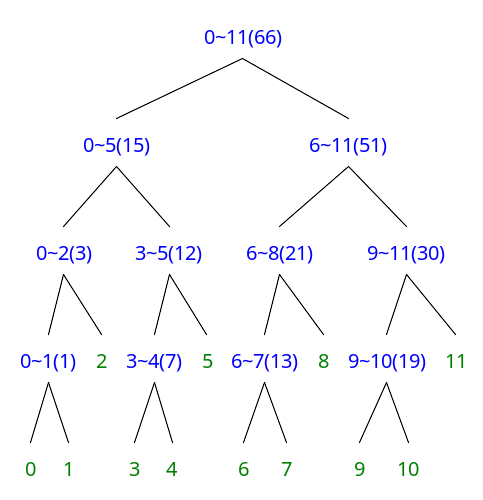
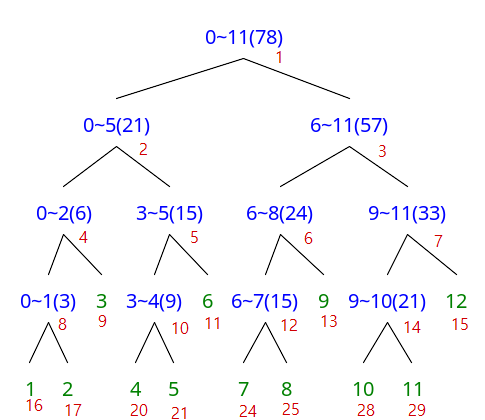
segment tree 작성하기

diff --git a/_posts/2019-06-14-algorithm-bj-2042-intervalsum.md b/_posts/2019-06-14-algorithm-bj-2042-intervalsum.md
@@ -1,0 +1,198 @@
+--- 
+layout: single
+classes: wide
+title: "[풀이] 백준 2042 구간 합 구하기"
+header:
+  overlay_image: /img/algorithm-bg.jpg
+excerpt: '세그먼트 트리를 이용해서 변경이 많은 구간합을 구하자'
+author: "window_for_sun"
+header-style: text
+categories :
+  - Algorithm
+tags:
+  - Algorithm
+  - Segment Tree
+use_math : true
+---  
+
+# 문제
+- N 개의 수가 주어지고, 빈번한 수의 변경이 일어 난다.
+- 이때 N 개의 수에서 특정 구간의 합을 구하라.
+
+## 입력
+첫째 줄에 수의 개수 N(1 ≤ N ≤ 1,000,000)과 M(1 ≤ M ≤ 10,000), K(1 ≤ K ≤ 10,000) 가 주어진다. M은 수의 변경이 일어나는 회수이고, K는 구간의 합을 구하는 회수이다. 그리고 둘째 줄부터 N+1번째 줄까지 N개의 수가 주어진다. 그리고 N+2번째 줄부터 N+M+K+1번째 줄까지 세 개의 정수 a, b, c가 주어지는데, a가 1인 경우 b번째 수를 c로 바꾸고 a가 2인 경우에는 b번째 수부터 c번째 수까지의 합을 구하여 출력하면 된다.
+
+a가 1인 경우 c는 long long 범위를 넘지 않는다.
+
+## 출력
+첫째 줄부터 K줄에 걸쳐 구한 구간의 합을 출력한다. 단, 정답은 long long 범위를 넘지 않는다.
+
+## 예제 입력
+
+```
+5 2 2
+1
+2
+3
+4
+5
+1 3 6
+2 2 5
+1 5 2
+2 3 5
+```  
+
+## 예제 출력
+
+```
+17
+12
+```  
+
+## 풀이
+- 반복문 2개로 문제를 풀게 되면 한번의 구간합을 구할때 마다 최대 $O(N^2)$ 의 시간 복잡도가 필요하다.
+- [세그먼트 트리]({{site.baseurl}}{% link _posts/2019-06-12-algorithm-concept-segmenttree.md %}) 를 사용하게 되면 $O(\log_2 N)$ 의 시간 복잡도로 구간합을 구할 수 있다.
+
+```java
+public class Main {
+    private StringBuilder result;
+    private int numCount;
+    private int updateCount;
+    private int queryCount;
+    private int treeSize;
+    private long[] dataArray;
+    private long[] sumSegmentTree;
+    private final int UPDATE = 1;
+    private final int QUERY = 2;
+
+
+    public Main() {
+        this.input();
+        this.output();
+    }
+
+    public static void main(String[] args) {
+        new Main();
+    }
+
+    public void input() {
+        BufferedReader reader = new BufferedReader(new InputStreamReader(System.in));
+
+        try{
+            StringTokenizer token = new StringTokenizer(reader.readLine(), " ");
+
+            this.numCount = Integer.parseInt(token.nextToken());
+            this.updateCount = Integer.parseInt(token.nextToken());
+            this.queryCount = Integer.parseInt(token.nextToken());
+            this.dataArray = new long[this.numCount];
+            this.treeSize = this.getTreeSize(this.numCount);
+            this.sumSegmentTree = new long[this.treeSize + 1];
+            this.result = new StringBuilder();
+
+            for(int i = 0; i < this.numCount; i++) {
+                this.dataArray[i] = Integer.parseInt(reader.readLine());
+            }
+
+            this.initSegmentTree(1, 0, this.numCount - 1);
+            int count = this.updateCount + this.queryCount;
+
+            for(int i = 0; i < count; i++) {
+                token = new StringTokenizer(reader.readLine(), " ");
+
+                this.solution(Integer.parseInt(token.nextToken()), Integer.parseInt(token.nextToken()), Integer.parseInt(token.nextToken()));
+            }
+
+
+        } catch(Exception e) {
+            e.printStackTrace();
+        }
+    }
+
+    public void output() {
+        System.out.println(this.result);
+    }
+
+    public void solution(int type, int indexOrStart, int updateOrEnd) {
+        if(type == UPDATE) {
+            // 업데이트 수행
+            this.update(indexOrStart - 1, updateOrEnd);
+        } else {
+            // 구간 합
+            this.result.append(this.sum(1, 0, this.numCount - 1, indexOrStart - 1, updateOrEnd - 1)).append("\n");
+        }
+    }
+
+    // 세그먼트 트리 초기화
+    public long initSegmentTree(int node, int start, int end) {
+        if(start == end) {
+            return this.sumSegmentTree[node] = this.dataArray[start];
+        }
+
+        int mid = (start + end) / 2;
+        long sum = this.initSegmentTree(node * 2, start, mid) + this.initSegmentTree(node * 2 +1, mid + 1, end);
+        this.sumSegmentTree[node] += sum;
+
+        return this.sumSegmentTree[node];
+    }
+
+    // 값 변경
+    public void update(int index, int value) {
+        if(index < 0 || index >= this.numCount) {
+            return;
+        }
+
+        long before = this.dataArray[index];
+        long diff = value - before;
+        this.dataArray[index] = value;
+        this.updateSegmentTree(1, 0, this.numCount - 1, index, diff);
+    }
+
+    public void updateSegmentTree(int node, int start, int end, int index, long diff) {
+        if(index < start || end < index) {
+            return;
+        }
+
+        this.sumSegmentTree[node] += diff;
+
+        if(start == end) {
+            return;
+        }
+
+        int mid = (start + end) / 2;
+        this.updateSegmentTree(node * 2, start, mid, index, diff);
+        this.updateSegmentTree(node * 2 + 1, mid + 1, end, index, diff);
+    }
+
+    // sumStart-sumEnd 의 구간합
+    public long sum(int node, int start, int end, int sumStart, int sumEnd) {
+        long sum = 0;
+
+        if(end >= sumStart && sumEnd >= start) {
+            if(sumStart <= start && end <= sumEnd) {
+                sum = this.sumSegmentTree[node];
+            } else {
+                int mid = (start + end) / 2;
+                sum = this.sum(node * 2, start, mid, sumStart, sumEnd) + this.sum(node * 2 + 1, mid + 1, end, sumStart, sumEnd);
+            }
+        }
+
+        return sum;
+    }
+
+    public int getTreeSize(int dataSize) {
+        int result = 0;
+        int height = (int)Math.ceil(this.logBottomTop(2, dataSize));
+        result = (1 << (height + 1));
+
+        return result;
+    }
+
+    public double logBottomTop(double bottom, double top) {
+        return Math.log(top) / Math.log(bottom);
+    }
+}
+```  
+
+---
+## Reference
+[2042-구간 합 구하기](https://www.acmicpc.net/problem/2042)  

diff --git a/_posts/2019-06-12-algorithm-concept-segmenttree.md b/_posts/2019-06-12-algorithm-concept-segmenttree.md
@@ -31,7 +31,118 @@ use_math : true
 - 리프 노드는 쿼리를 수행 할 배열에 해당하는 데이터를 의미한다.
 - 리프 노드를 제외한 다른 노드(루트 노드 포함)는 왼쪽 자식과 오른쪽 자식에 대한 쿼리 결과를 저장한다.
 
+## 구간 합 세그먼트 트리
+- 세그먼트 트리에서 가장 대중적인 구간 합을 예시로 들겠다.
+- 아래와 같은 구간합을 구해야하는 배열 D가 있다.
+
+index|0|1|2|3|4|5|6|7|8|9|10|11
+---|---|---|---|---|---|---|---|---|---|---|---|---
+value|1|2|3|4|5|6|7|8|9|10|11|12
+
+- 세그먼트 트리의 정보는 배열에 담아지기 때문에 세그먼트 배열이 필요하고 적당한 크기가 필요하다.
+	- 가장 간단한 방법은 dataSize(D 의 크기) * 4 를 하면된다.
+	- dataSize 보다 큰 $2^k$ 의 k 를 찾아서 $2^{k +1}$ 값이 세그먼트 트리 배열의 크기이다.
+	- 이를 수식으로 작성하면 다음과 같다. $2^{\lceil \log_2 N \rceil + 1}$
+	- dataSize 가 12일 경우 세그먼트 트리 배열의 크기는 32가 된다.
+
+- D 배열을 세그먼트 트리(S)로 구성하면 아래 그림과 같다.
+- 각 노드는 (D 배열에서 쿼리 인덱스 범위), 쿼리 결과이자 S 배열의 값, 아래쪽에 S 배열의 인덱스로 구성되어 있다.
+
 ![그림1]({{site.baseurl}}/img/algorithm/concept-segmenttree-1.png)
+
+- 부모노드는 2개의 자식을 가지게 되는데 각 자식의 인덱스를 알아내는 방법은 아래와 같다.
+	- 부모 노드 인덱스 * 2 : 왼쪽 자식
+	- (부모 노드 인덱스 * 2) + 1 : 오른쪽 자식
+	
+### 세그먼트 트리 구성
+- 세그먼트 트리를 만들때 S 배열에 값이 들어가는 순서는 세그먼트 트리를 후위 순회한 결과랑 같다.
+	- 1-2-3-3-6-4-5-9-6-15-21-7-8-15-9-24-10-11-21-12-33-57-78
+
+- 세그먼트 트리를 만드는 메서드는 아래와 같다.
+
+```java
+/**
+ * dataArray 를 기반으로 Segment Tree 생성
+ * @param node 세그먼트 트리 배열에서 인덱스
+ * @param start 데이터 배열에서 시작 인덱스
+ * @param end 데이터 배열에서 종료 인덱스
+ * @return 쿼리 결과값
+ */
+public long init(int node, int start, int end) {
+    if(start == end) {
+        // 리프 노드일 경우 (데이터 범위가 아니라, 하나의 데이터 일때)
+        this.segmentTreeArray[node] = this.dataArray[start];
+    } else {
+        int mid = (start + end) / 2;
+        // 현재 node 의 값은 node 의 좌측 자식 + 우측 자식
+        long sum = this.init(node * 2, start, mid) + this.init(node * 2 + 1, mid + 1, end);
+        this.segmentTreeArray[node] += sum;
+    }
+
+    return this.segmentTreeArray[node];
+}
+```  
+
+- 해당 메서드 호출는 다음과 같다.
+
+```java
+this.init(1, 0, this.dataSize - 1);
+```  
+
+- 루트 노드를 호출로 시작해서 좌측, 우측 자식을 계속 방문하며 리프 노드일 경우 해당 start=end 에 해당하는 데이터 배열의 값을 넣어주고, 리프 노드가 아닐 경우 좌측 자식 + 우측 자식 합을 세그먼트 트리 배열 node 인덱스에 넣어 준다. 
+
+### 쿼리 수행(구간 합)
+- 구간 합을 구하는 메서드는 아래와 같다.
+
+```java
+/**
+ * sumStart-sumEnd(dataArray 의 인덱스) 범위의 합을 구함
+ * @param node 세그먼트 트리 배열에서 인덱스
+ * @param start 데이터 배열에서 시작 인덱스
+ * @param end 데이터 배열에서 종료 인덱스
+ * @param sumStart 쿼리 시작 인덱스(데이터 배열)
+ * @param sumEnd 쿼리 종료 인덱스(데이터 배열)
+ * @return sumStart-sumEnd 의 쿼리 결과
+ */
+public long sum(int node, int start, int end, int sumStart, int sumEnd) {
+    long sum = 0;
+
+    // start-end 의 볌위가 sumStart-sumEnd 의 범위 어느 한 부분이라도 포함될 경우
+    if(end >= sumStart && sumEnd >= start) {
+        if(sumStart <= start && end <= sumEnd) {
+            // start-end 범위가 sumStart-sumEnd 의범위와 같거나 포함될 경우
+            sum = this.segmentTreeArray[node];
+        } else {
+            // 같거나 포함되지 않는 경우는 좌, 우 자식 중 sumStart-sumEnd 범위에 포함되는 합을 구함
+            int mid = (start + end) / 2;
+            sum = this.sum(node * 2, start, mid, sumStart, sumEnd) + this.sum(node * 2 + 1, mid + 1, end, sumStart, sumEnd);
+        }
+    }
+
+    return sum;
+}
+
+/**
+ * 구간 합을 구한다.
+ * @param sumStart 쿼리 시작 인덱스(데이터 배열)
+ * @param sumEnd 쿼리 종료 인덱스(데이터 배열)
+ * @return sumStart-sumEnd 의 쿼리 결과
+ */
+public long getSum(int sumStart, int sumEnd) {
+    return this.sum(1, 0, this.dataSize - 1, sumStart, sumEnd);
+}
+```  
+
+- 2~5 인덱스에 해당하는 구간 합을 구할 때 메서드 호출은 아래와 같다.
+
+```java
+this.getSum(2, 5);
+```  
+
+- 2~5 인덱스 구간 합에서 방문 하는 노드는 아래와 같다.
+
+![그림2]({{site.baseurl}}/img/algorithm/concept-segmenttree-2.png)
+
 
 
 
